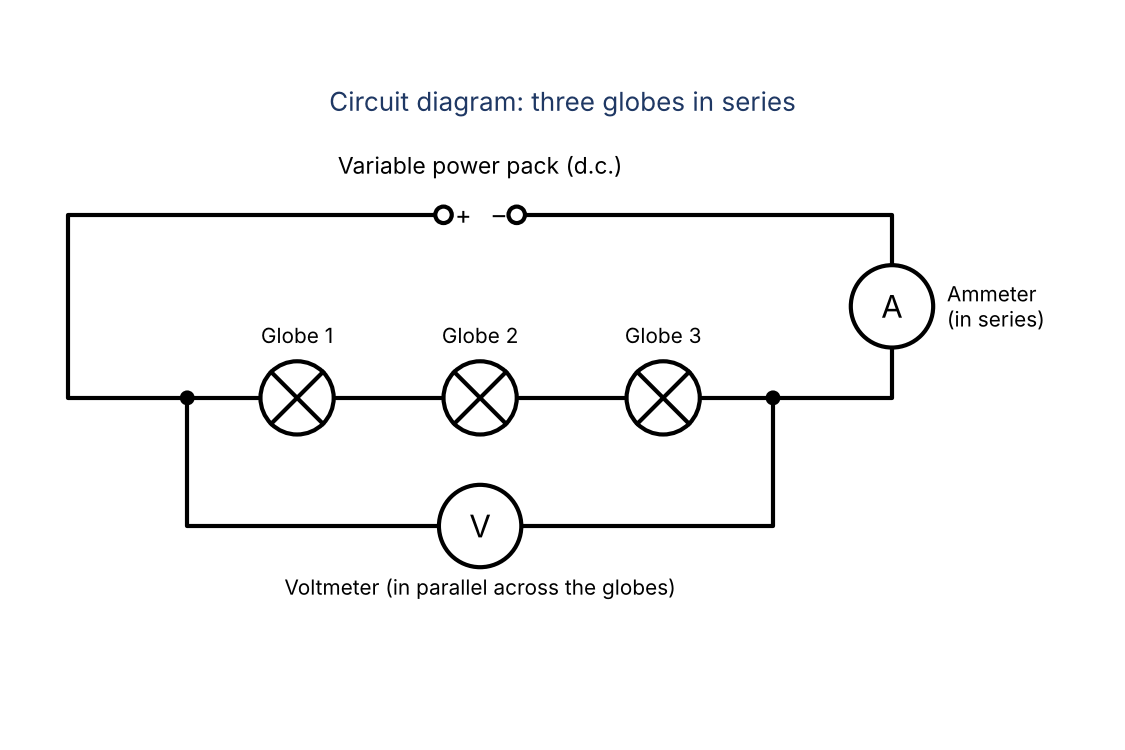
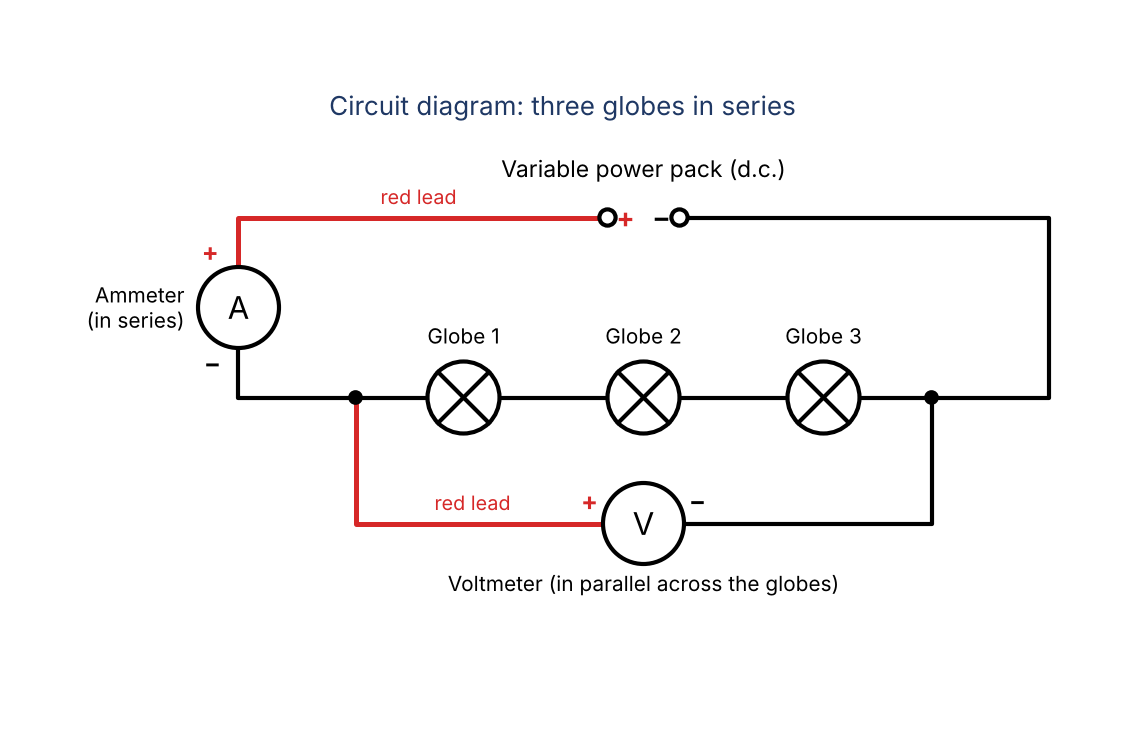
rrr

diff --git a/docs/prac_resistance/resistance_03_safety_diagram_method.rst b/docs/prac_resistance/resistance_03_safety_diagram_method.rst
@@ -63,9 +63,9 @@ Question 6: Circuit diagram
     * **Label** each component.
 
 .. image:: images/resistance_circuit_diagram.png
-    :width: 600
     :align: center
     :alt: Circuit diagram showing a power pack, an ammeter and three globes in series, with a voltmeter in parallel across the globes
+
 
 Fill in the gaps
 ~~~~~~~~~~~~~~~~~~~~~~
